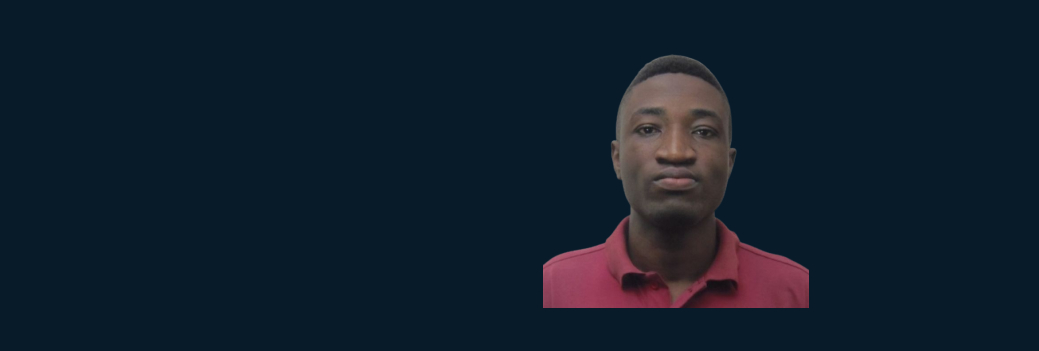
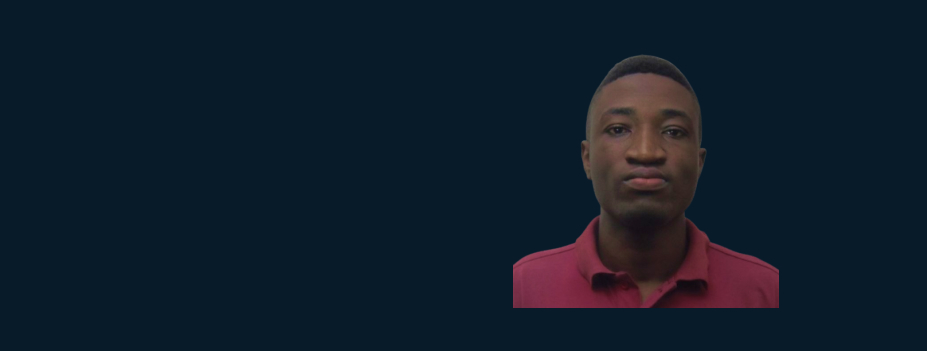
Redesigned the homepage background

Changed region(s): [[0.5135, 0.1425, 0.8457, 0.8832]]

diff --git a/styles/home.css b/styles/home.css
@@ -107,3 +107,20 @@
 .btn-box .btn:hover::before {
   width: 100%;
 }
+
+/* This style is applied to the right side of the page background */
+.home-imgHover {
+  position: absolute;
+  top: 0;
+  right: 0;
+  width: 45%;
+  height: 100%;
+  background: transparent;
+  transition: 3s;
+}
+
+/* This style will be applied to right side of the homepage */
+.home-imgHover:hover {
+  background: var(--bg-color);
+  opacity: 0.8;
+}

diff --git a/index.html b/index.html
@@ -75,6 +75,8 @@
         <a href="#"><i class="bx bxl-twitter"></i></a>
         <a href="#"><i class="bx bxl-linkedin"></i></a>
       </div>
+
+      <div class="home-imgHover"></div>
     </section>
 
     <script src="js/script.js"></script>
